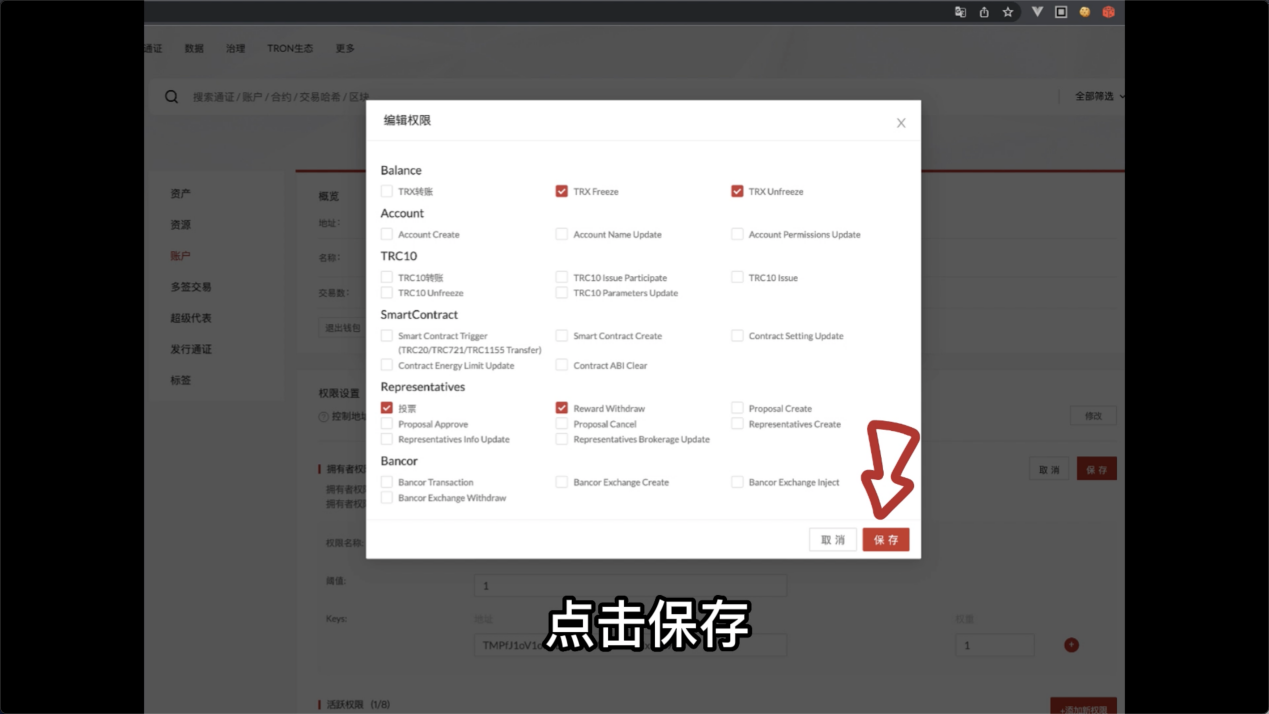
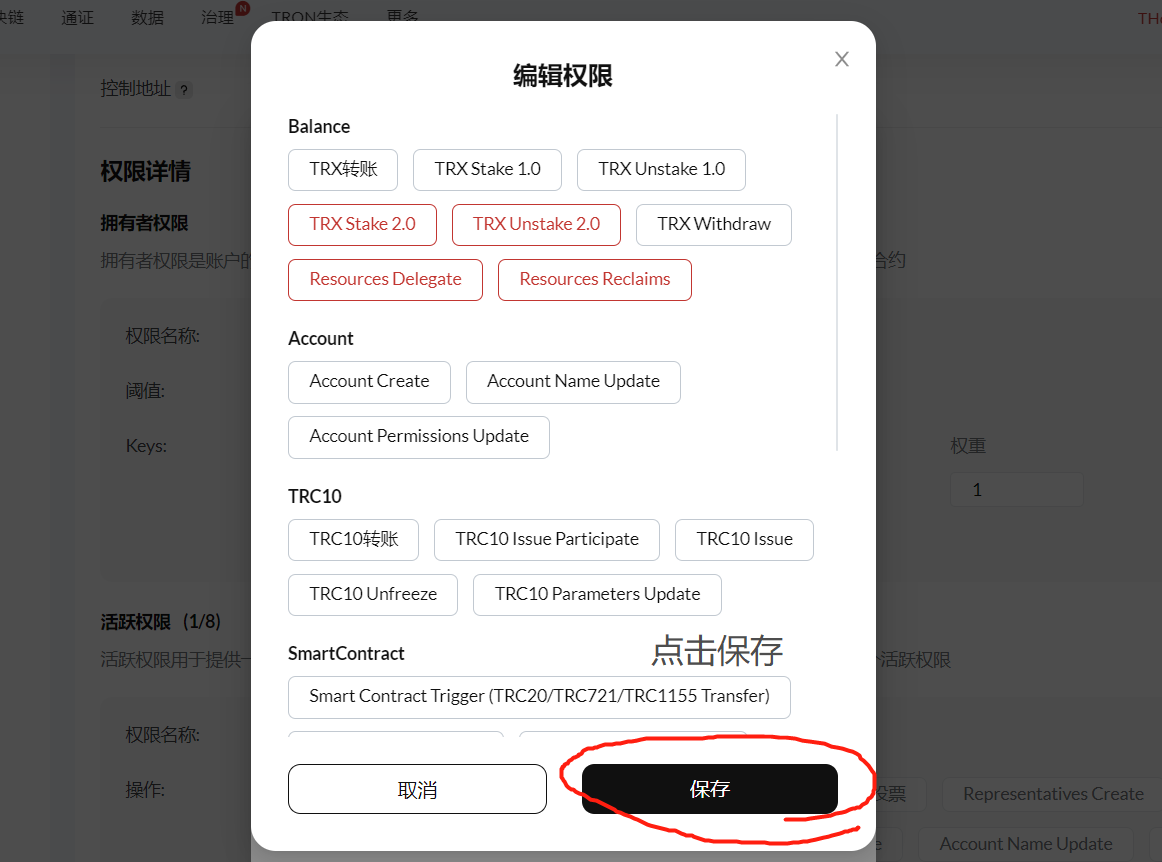
update

diff --git a/src/page/home/help/detail.js b/src/page/home/help/detail.js
@@ -8,7 +8,7 @@ const detail = {
         <p>比特币和以太坊立下的规矩是,代币转账需要用 BTC 和 ETH 来支付,而波场立下的规矩则是用能量和带宽来支付。</p>
         <p>波场上有两类常见租客(两类常见的代币格式):TRC-10 和 TRC-20。转账 TRX 和 TRC-10 代币时需要消耗带宽,转账 TRC-20 代币时需要消耗带宽和能量。</p>
         <p>如果你不知道代币格式,可以在资产首页点击该代币,进入交易记录界面后再点击右上角,进入 TRONSCAN 即可查看其代币格式,例如波场上的 USDT 就是 TRC-20 格式。</p>
-        <p>波场账户能量不是免费的,需要冻结TRX获取能量。也可以向Feee.io能量交易平台租能量。假如账户中有100万能量,使用完毕后,会慢慢恢复,24小时恢复满100万。冻结(租用)默认最少3天, 当3天后账户取消冻结(租用到期)时,通过冻结(租用)获得的能量也将自动清零。</p>
+        <p>波场账户能量不是免费的,需要冻结TRX获取能量。也可以向Hashgo.xyz能量交易平台租能量。假如账户中有100万能量,使用完毕后,会慢慢恢复,24小时恢复满100万。冻结(租用)默认最少3天, 当3天后账户取消冻结(租用到期)时,通过冻结(租用)获得的能量也将自动清零。</p>
         `
   },
   q2: {
@@ -36,16 +36,16 @@ const detail = {
     <p>点击资产首页的能量 / 带宽,进入 Tron 资源管理界面,选择想获得的资源类型,输入需冻结的 TRX 数量,获得的能量 = 冻结的TRX / 全网获得能量冻结的总TRX * 总能量限制。(这是基于冻结的TRX为所有用户平均分配的固定能量),冻结后的 TRX 在 3 天后可以解冻取回。如果您有大量闲置TRX,可以考虑这种方法。</p>
     <img src="/src/assets/home/faq3answer1.png" alt="" >
     <p>方法三:租用能量</p>
-    <p>可以通过Feee.io平台进行能量租赁的方式来节省手续费,能量租赁既不需要冻结大量TRX,也不用燃烧更多TRX,还可节省至少80%的手续费,以租用100万能量为例,若直接燃烧TRX,3天需要燃烧大约840TRX,用feee.io平台租用100万能量只需要140TRX左右,节省了83.33%≈700TRX。推荐使用,具体可参考《如何租用能量？》</p>
+    <p>可以通过Hashgo.xyz平台进行能量租赁的方式来节省手续费,能量租赁既不需要冻结大量TRX,也不用燃烧更多TRX,还可节省至少80%的手续费,以租用100万能量为例,若直接燃烧TRX,3天需要燃烧大约840TRX,用hashgo.xyz平台租用100万能量只需要140TRX左右,节省了83.33%≈700TRX。推荐使用,具体可参考《如何租用能量？》</p>
         `
   },
   q4: {
     title: '如何租用能量？',
     content: `
         
-    <p>feee.io提供了波场能量交易功能,用户可随时自助租用,实时到账。租用流程简单便捷,可选择DAPP租用和转账租用两种方式:</p>
+    <p>hashgo.xyz提供了波场能量交易功能,用户可随时自助租用,实时到账。租用流程简单便捷,可选择DAPP租用和转账租用两种方式:</p>
     <p>DAPP租用:</p>
-    <p>1.打开租赁网址feee.io,点击登录连接DAPP钱包</p>
+    <p>1.打开租赁网址hashgo.xyz,点击登录连接DAPP钱包</p>
     <img src="/src/assets/home/faq4answer1.png" alt="" width="1200">
     <p>2.若未安装DAPP钱包,可点击安装,已经安装可跳过此步</p>
     <img src="/src/assets/home/faq4answer2.png" alt="" width="500" height="500">
@@ -55,7 +55,7 @@ const detail = {
     <img src="/src/assets/home/faq4answer4.png" alt="" width="1200">
     <p>转账租用:</p>
     <p>选择转账租用,可在手机端直接转账操作能量租用。</p>
-    <p>1.打开租赁网址feee.io,输入想要租用的能量和租用天数,系统自动计算出需要转账的金额</p>
+    <p>1.打开租赁网址hashgo.xyz,输入想要租用的能量和租用天数,系统自动计算出需要转账的金额</p>
     <img src="/src/assets/home/faq4answer5.png" alt="" width="1200">
     <p>2.复制平台钱包地址,按系统计算出的金额转账到平台钱包地址,平台默认转账钱包为接收能量地址,若需自定义接收地址,请在转账时备注接收地址。转账后,5分钟内能量到账。</p>
     <img src="/src/assets/home/faq4answer6.png" alt="" width="500" height="1000">

diff --git a/src/page/seller/guide/index.vue b/src/page/seller/guide/index.vue
@@ -26,7 +26,10 @@
             <div class="copy-item">
               <p class="title">授权地址</p>
               <p class="text">TVDJUVhQPdp8Gojsp7bmZS47M8KU2zSsaq</p>
-              <div class="btn" @click="copyEnd('TVDJUVhQPdp8Gojsp7bmZS47M8KU2zSsaq')">
+              <div
+                class="btn"
+                @click="copyEnd('TVDJUVhQPdp8Gojsp7bmZS47M8KU2zSsaq')"
+              >
                 复制
               </div>
             </div>
@@ -44,7 +47,9 @@
                 <el-checkbox label="立即开启自动出售" v-model="form.delivery" />
               </el-form-item>
               <el-form-item>
-                <el-button style="width: 100%" type="primary" @click="onSubmit">完成授权</el-button>
+                <el-button style="width: 100%" type="primary" @click="onSubmit"
+                  >完成授权</el-button
+                >
               </el-form-item>
             </el-form>
           </div>
@@ -52,13 +57,31 @@
       </div>
     </div>
   </div>
-  <el-dialog v-model="courseVisible" title="如何授权给Feee.io自动出售能量？" width="830px" center>
+  <el-dialog
+    v-model="courseVisible"
+    title="如何授权给Hashgo.xyz自动出售能量？"
+    width="830px"
+    center
+  >
     <HowAutoSell></HowAutoSell>
   </el-dialog>
-  <el-dialog v-model="courseVideoVisible" :show-close="false" title="" :before-close="close" width="830px" center
-    style="background-color: transparent">
+  <el-dialog
+    v-model="courseVideoVisible"
+    :show-close="false"
+    title=""
+    :before-close="close"
+    width="830px"
+    center
+    style="background-color: transparent"
+  >
     <div class="video-course-wrapper">
-      <video class="video" :src="videoSrc" autoplay="" controls="" preload="auto"></video>
+      <video
+        class="video"
+        :src="videoSrc"
+        autoplay=""
+        controls=""
+        preload="auto"
+      ></video>
       <div class="btns">
         <div class="btn" @click="lookTxtCourse">图文教程</div>
         <div class="btn" @click="close">完成</div>
@@ -72,11 +95,12 @@ import { getPermission, getNothing } from '@/utils/axios/seller/index.js'
 import { copy } from '@/utils/utils/index.js'
 import { ref } from 'vue'
 import HowAutoSell from '../help/how-auto-sell/page.vue'
-import { useRouter } from "vue-router";
-const router = useRouter();
-const store = useStore();
+import { useRouter } from 'vue-router'
+import { walletAddress } from '@/utils/utils/tron.js'
+const router = useRouter()
+const store = useStore()
 const form = reactive({
-  name: 'TVDJUVhQPdp8Gojsp7bmZS47M8KU2zSsaq',
+  name: '',
   delivery: true
 })
 const courseVisible = ref(false)
@@ -91,13 +115,21 @@ const copyEnd = msg => {
     }
   })
 }
+
+watch(
+  () => store.state.userInfo?.userInfo,
+  (o, n) => {
+    console.log('o', o)
+    form.name = o.walletAddress || ''
+    console.log(' form.name', form.name)
+  }
+)
 const onSubmit = async () => {
   console.log('submit!')
   const data = await getPermission()
   console.log(data)
   if (data.code === 12000) {
     await store.dispatch('getUserInfoAction')
-    console.log('666666666');
     router.push('/console/seller/auth-operation')
   } else {
     ElMessage.error(data.msg)
@@ -107,6 +139,7 @@ const startStudy = () => {
   step.value = 2
 }
 const lookTxtCourse = () => {
+  videoSrc.value = ''
   courseVideoVisible.value = false
   courseVisible.value = true
 }

diff --git a/src/page/seller/help/how-auto-sell/page.vue b/src/page/seller/help/how-auto-sell/page.vue
@@ -46,7 +46,7 @@
       :initial-index="4"
       fit="cover"
     />
-    <p>7、权限名称必须输入feee.io</p>
+    <p>7、权限名称必须输入hashgo.xyz</p>
     <img
       src="@/assets/help/cas-7.png"
       :zoom-rate="1.2"
@@ -60,14 +60,14 @@
       :initial-index="4"
       fit="cover"
     />
-    <p>9、输入平台钱包地址<mark>TQcC5yWBCuqo9pXkskHJMdsfBwZJLhhhhh</mark></p>
+    <p>9、输入平台钱包地址<mark>TVDJUVhQPdp8Gojsp7bmZS47M8KU2zSsaq</mark></p>
     <img
       src="@/assets/help/cas-9.png"
       :zoom-rate="1.2"
       :initial-index="4"
       fit="cover"
     />
-    <p>10、权重填写1s</p>
+    <p>10、权重填写1</p>
     <img
       src="@/assets/help/cas-10.png"
       :zoom-rate="1.2"
@@ -82,14 +82,16 @@
       fit="cover"
     />
     <p>
-      12、在编辑权限弹窗中勾选这4项（TRX
-      Freeze是质押权限，授权平台后可自动化出售能量或带宽、TRX
-      Unfreeze是解押权限，授权后平台自动解冻质押订单、
-      授权投票权限，可在出售成功后自动投票，获取TRX权益奖励、 Reward
-      Withdraw是领取权益权限，授权后平台会自动领取权益收益到您的钱包）
+      12、在编辑权限弹窗中勾选这5项
     </p>
     <img
-      src="@/assets/help/cas-12.png"
+      src="@/assets/help/cas-12-1.png"
+      :zoom-rate="1.2"
+      :initial-index="4"
+      fit="cover"
+    />
+    <img
+      src="@/assets/help/cas-12-2.png"
       :zoom-rate="1.2"
       :initial-index="4"
       fit="cover"
@@ -125,18 +127,18 @@
     <p>
       17、支付成功后，回到卖家后台
       <a
-        href="https://hashgo.xyz/console"
+        :href="hrefValue"
         target="_blank"
         rel="noopener noreferrer"
         >Hashgo.xyz</a
-      >，填写已设置授权的钱包地址并提交完成授权，到此授权的全部操作就完成了。
+      >，查看已设置授权的钱包地址并提交完成授权，到此授权的全部操作就完成了。
     </p>
-    <img
+    <!-- <img
       src="@/assets/help/cas-17-1.png"
       :zoom-rate="1.2"
       :initial-index="4"
       fit="cover"
-    />
+    /> -->
     <img
       src="@/assets/help/cas-17-2.png"
       :zoom-rate="1.2"
@@ -147,7 +149,13 @@
 </template>
 
 <script setup>
+import { onMounted, ref } from 'vue'
 import HelpContent from '../help-content.vue'
+const hrefValue = ref('')
+onMounted(() => {
+    const {  origin, pathname } = window.location
+    hrefValue.value = `${origin}${pathname}#/console/seller/guide`
+})
 </script>
 
 <style lang="less" scoped>

diff --git a/src/page/buyer/help/recharge/index.vue b/src/page/buyer/help/recharge/index.vue
@@ -1,10 +1,10 @@
 <template>
     <HelpContent>
         <div class="help-recharge">
-            <h1 class="help-rechare-title">1. 进入Feee.io管理面板，点击左侧菜单「充值」或管理面板中「充值」进入充值页面</h1>
+            <h1 class="help-rechare-title">1. 进入Hashgo.xyz管理面板，点击左侧菜单「充值」或管理面板中「充值」进入充值页面</h1>
             <img class="help-set-api-key-img" src="@/assets/help/api-create.png"/>
-            <h1 class="help-rechare-title">1. 进入Feee.io管理面板，点击左侧菜单「充值」或管理面板中「充值」进入充值页面</h1>
-            <div class="help-rechare-title-l">2. Feee.io支持两种充值方式</div>
+            <h1 class="help-rechare-title">1. 进入Hashgo.xyz管理面板，点击左侧菜单「充值」或管理面板中「充值」进入充值页面</h1>
+            <div class="help-rechare-title-l">2. Hashgo.xyz支持两种充值方式</div>
             <img class="help-set-api-key-img" src="@/assets/help/api-create.png"/>
             <div class="help-rechare-title-l">2.2 转账充值，可使用波场浏览器或手机钱包进行转账</div>
             <img class="help-set-api-key-img" src="@/assets/help/api-create.png"/>

diff --git a/src/components/recommend-popup-wrapper.vue b/src/components/recommend-popup-wrapper.vue
@@ -6,9 +6,9 @@
       <p class="tip">
         推荐成功后，能量交易永久享受 3% 返佣，闪兑交易永久享受 1% 返佣
       </p>
-      <a class="to-login-btn" href="http://" target="_blank"> 获取推荐链接 </a>
-      <div class="recommend-link">
-        <p>推广链接：https://hashgo.xyz/?ic=TS7U</p>
+      <a v-if="store.state.userInfo?.userInfo.inviteCode" class="to-login-btn" href="/#/console/buyer/dashboard" target="_blank"> 获取推荐链接 </a>
+      <div class="recommend-link" v-else>
+        <p>推广链接：{{hrefValue}}</p>
         <span class="copy-btn-wrapper">
           <div class="btn">
             <div class="copy-btn">复制</div>
@@ -21,6 +21,9 @@
 
 <script setup>
 // import { ref, defineProps, defineEmits } from 'vue'
+import { useRouter } from "vue-router";
+const store = useStore();
+const hrefValue = ref('')
 const emit = defineEmits(['close'])
 const props = defineProps({
   show: {
@@ -30,6 +33,10 @@ const props = defineProps({
 const handleClose = () => {
   emit('close', false)
 }
+onMounted(() => {
+    const {  origin, pathname } = window.location
+    hrefValue.value = `${origin}${pathname}?ic=${store.state.userInfo?.userInfo.inviteCod}`
+})
 </script>
 
 <style lang="less" scoped>

diff --git a/src/page/buyer/help/set-api-key/index.vue b/src/page/buyer/help/set-api-key/index.vue
@@ -1,7 +1,7 @@
 <template>
     <HelpContent>
         <div class="help-set-api-key">
-            <div>进入Feee.io管理面板，点击创建KEY，输入名称（Key名称为方便区别和统计，可按需求自定义名称，比如项目名称），点击创建即可。</div>
+            <div>进入Hashgo.xyz管理面板，点击创建KEY，输入名称（Key名称为方便区别和统计，可按需求自定义名称，比如项目名称），点击创建即可。</div>
             <img class="help-set-api-key-img" src="@/assets/help/api-create.png"/>
             <div>注：每个账户最多可创建3个API-Key，删除后API租用统计不可找回</div>
         </div>

diff --git a/src/auto-imports.d.ts b/src/auto-imports.d.ts
@@ -2,6 +2,8 @@
 export {}
 declare global {
   const EffectScope: typeof import('vue')['EffectScope']
+  const ElMessage: typeof import('element-plus/es')['ElMessage']
+  const ElMessageBox: typeof import('element-plus/es')['ElMessageBox']
   const computed: typeof import('vue')['computed']
   const createApp: typeof import('vue')['createApp']
   const createLogger: typeof import('vuex')['createLogger']

diff --git a/src/page/seller/help/help-items.vue b/src/page/seller/help/help-items.vue
@@ -1,6 +1,6 @@
 <template>
   <div @click="gotoHelp('help/how-auto-sell')" class="help">
-    <img src="@/assets/home/doc-s1.svg" class="help-img" /><span class="help-text">如何授权给Feee.io自动出售能量？</span>
+    <img src="@/assets/home/doc-s1.svg" class="help-img" /><span class="help-text">如何授权给Hashgo.xyz自动出售能量？</span>
   </div>
 </template>
 <script setup>
